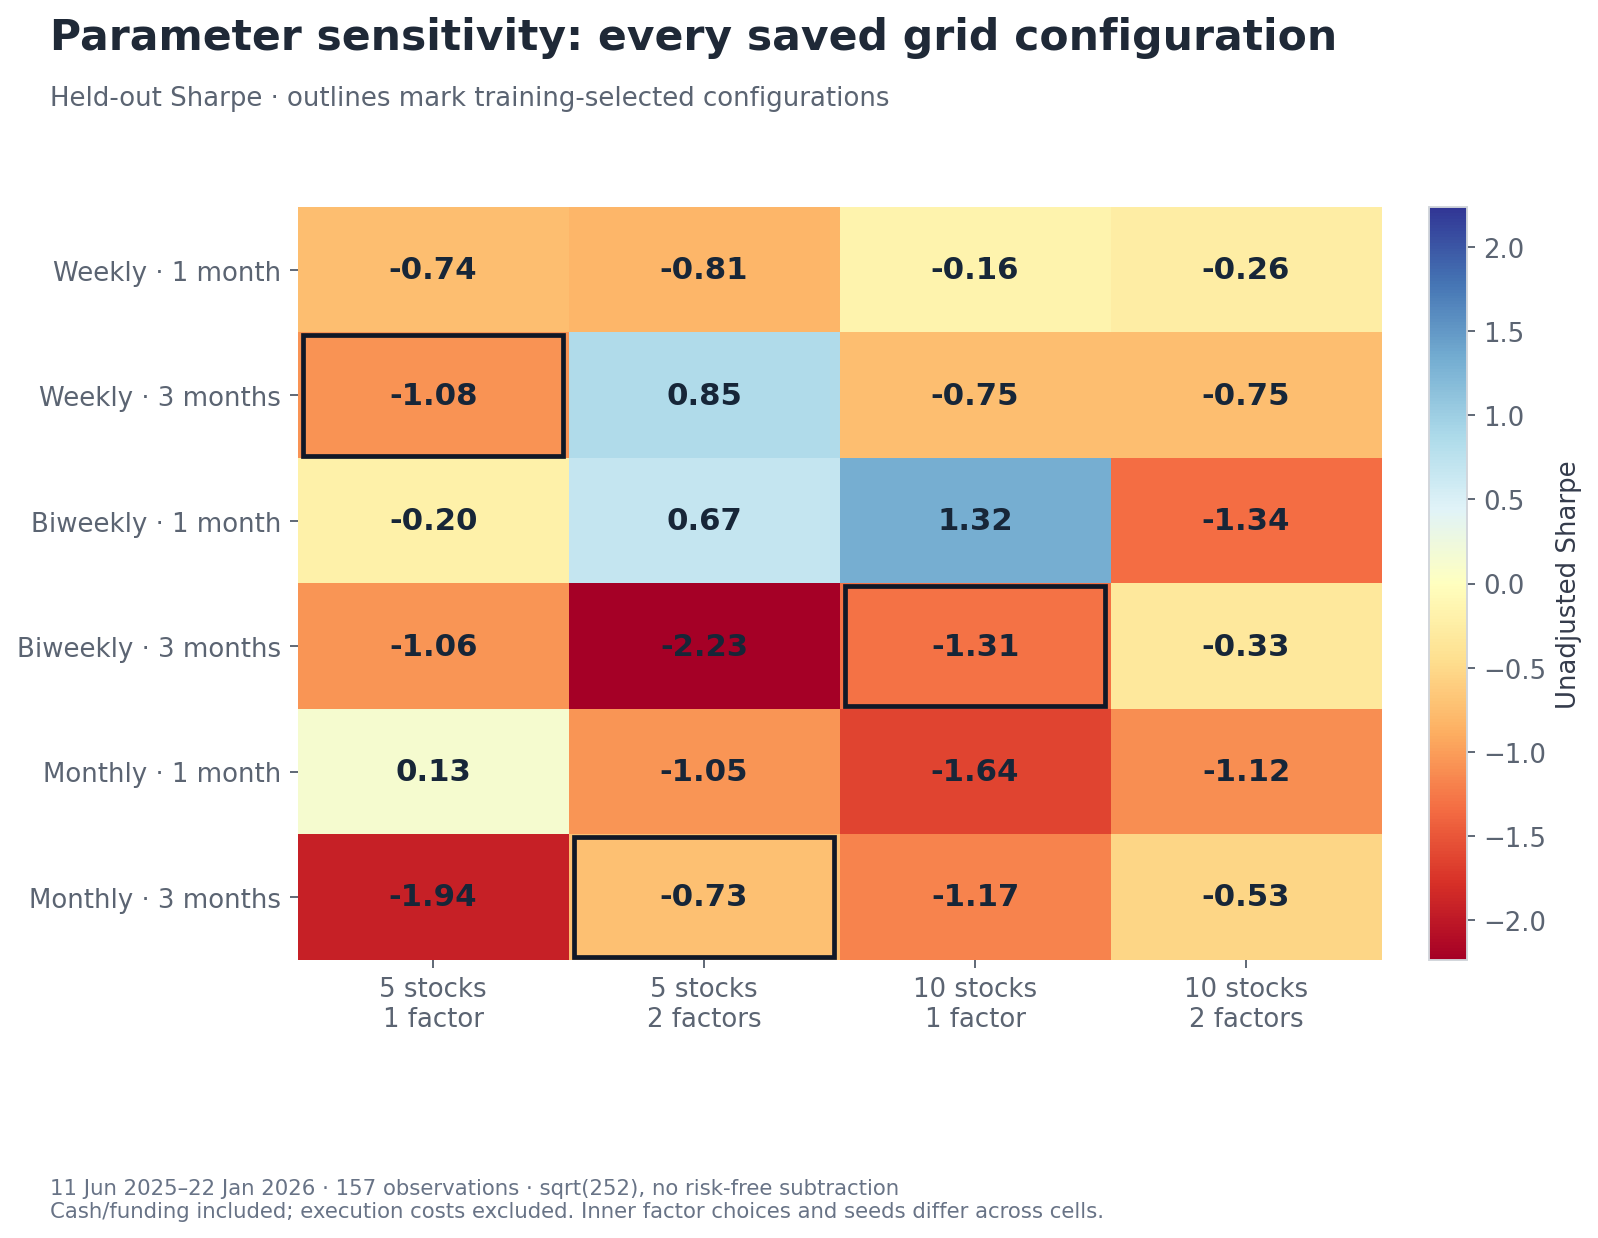
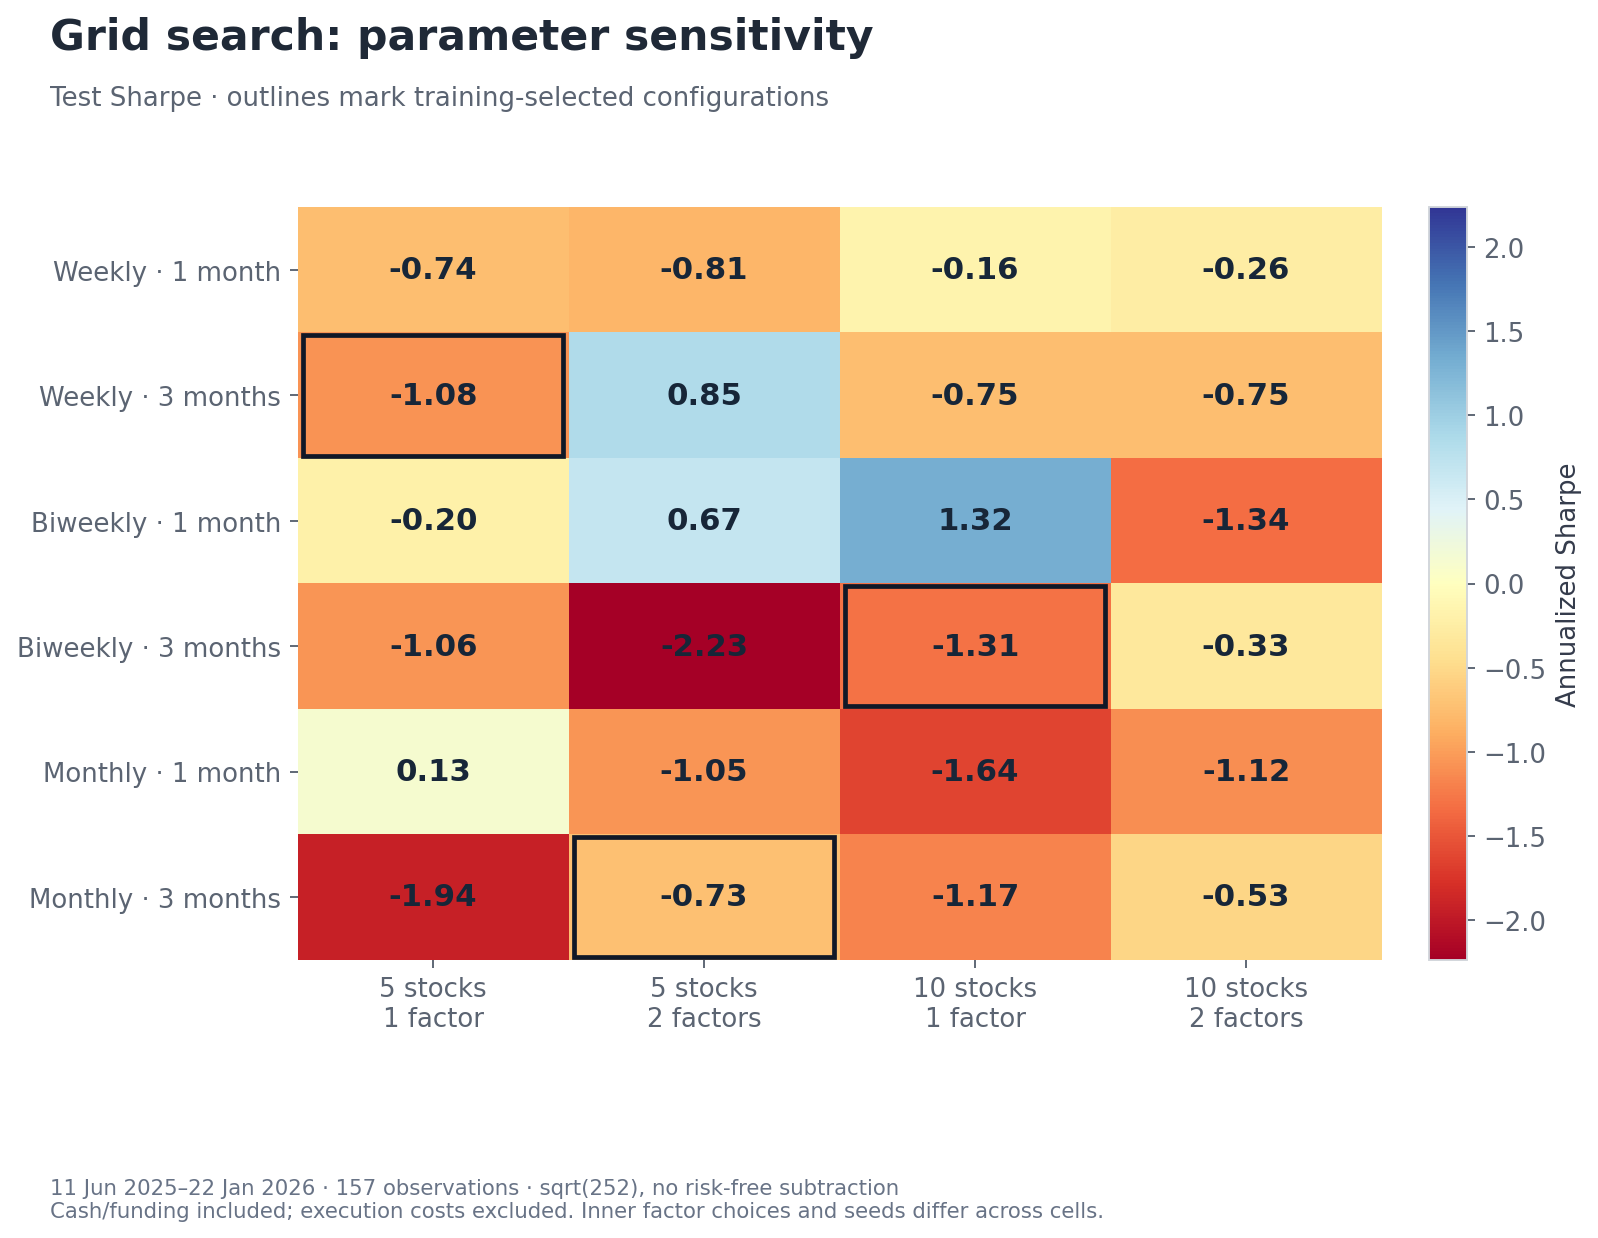
Simplify project documentation and chart captions

Changed region(s): [[0.0307, 0.0, 0.8279, 0.0921], [0.9506, 0.3683, 1.0, 0.5832]]

diff --git a/docs/research.md b/docs/research.md
@@ -6,9 +6,9 @@ I built the pipeline from data ingestion and factor construction through portfol
 
 ## Data engineering and provenance
 
-The private companion project contains collectors for MOEX ISS and optional AlgoPack market data, MOEX dividend/split feeds, CBonds dividends and financial reports, and CBR RUONIA rates. Incremental date-based updates and SQLite upserts support repeatable refreshes. Parquet snapshots provide reusable inputs for research; a review interface exposes signals, allocations and saved runs.
+The data pipeline includes collectors for MOEX ISS and optional AlgoPack market data, MOEX dividend/split feeds, CBonds dividends and financial reports, and CBR RUONIA rates. Incremental date-based updates and SQLite upserts support repeatable refreshes. Parquet snapshots provide reusable inputs for research; a research interface displays signals, allocations and saved runs.
 
-Processing includes instrument metadata, split-adjustment bookkeeping, financial-statement currency/unit normalization and trailing-earnings calculations. These implemented connectors clarify the collection pipeline. They do not, on their own, reconstruct the exact historical input snapshot or corporate-action conventions behind every saved experiment.
+Processing includes instrument metadata, split-adjustment bookkeeping, financial-statement currency/unit normalization and trailing-earnings calculations. Exact reproduction of earlier experiments still requires their original input snapshots and corporate-action conventions.
 
 The earlier research version has a fixed universe of 45 identifiers, with quotes available for 41 in its local snapshot. There is no historical index-membership reconstruction or original volume-based eligibility filter.
 
@@ -26,7 +26,7 @@ The selected strategy uses a later SQL-derived input snapshot through April 2026
 
 The search has two levels. The **inner search** chooses a portfolio specification for each enabled factor category: its signal, observation window and long/short direction. The **outer search** varies how those portfolios are selected and combined.
 
-| Study | Search space and computation | Saved evidence |
+| Study | Search space and computation | Saved outputs |
 | --- | --- | --- |
 | 24-setting grid | Weekly, biweekly or monthly resets; 1- or 3-month portfolio momentum; 5 or 10 stocks per leg; 1 or 2 selected portfolios. Up to 65,536 inner combinations per setting; base seed 42, derived per-setting seeds and all available workers. | Completed return series and chronological train/test summaries. |
 | Earlier 54-setting grids | Added a 0.5-month lookback and a third selected portfolio; combination budgets varied between runs. | Additional parameter-search records; different runs are not controlled comparisons. |
@@ -35,9 +35,9 @@ The search has two levels. The **inner search** chooses a portfolio specificatio
 
 The primary objective is annualized daily Sharpe. Other experiments use return–drawdown objectives or rebalance-start sensitivity penalties. The optimizer supports both Optuna grid and TPE sampling; the saved 50-trial configuration does not record its sampler choice.
 
-To control computation, I cached candidate returns, used array-based portfolio calculations and parallelized independent evaluations with joblib. When exhaustive search was too large, the inner search sampled distinct combinations with deterministic seeds and a fixed evaluation budget. This makes searches repeatable under matching inputs, without claiming a global optimum or a measured speedup.
+To control computation, I cached candidate returns, used array-based portfolio calculations and parallelized independent evaluations with joblib. When exhaustive search was too large, the inner search sampled distinct combinations with deterministic seeds and a fixed evaluation budget. Fixed inputs and seeds make searches repeatable. Budgeted searches do not guarantee a global optimum; computational speedup was not benchmarked.
 
-The selected run reused six previously selected specifications. Its saved settings include seed 42, one worker and a combination cap of one. These are evaluation settings, not evidence that the selected strategy emerged from a one-trial optimization. Later changes to momentum thresholds and execution assumptions are separate strategy versions.
+The selected run reused six previously selected specifications. Its saved settings include seed 42, one worker and a combination cap of one. This run evaluated an existing configuration rather than optimizing a new one. Later changes to momentum thresholds and execution assumptions are separate strategy versions.
 
 ## Validation and interpretation
 
@@ -48,13 +48,13 @@ The selected run reused six previously selected specifications. Its saved settin
 | Expanding-window exercise | Two successive later periods, with factor combinations reselected from preceding history | Fold averages and compounded returns across both periods answer different questions. |
 | Selected strategy | Full history divided 70/30; later reporting begins 17 Feb 2025 | Fixed specifications and full-window scoring; the split is not an independent final test. |
 
-Test statistics were visible during research and could influence configuration choices. Separate studies therefore cannot be arranged into a proven sequence of improvements. Rebalance-start sensitivity was also explored, but the saved multi-anchor batch produced no successful trials. Incomplete batches do not establish robustness.
+Test statistics were visible during research and could influence configuration choices. Differences in inputs and periods prevent a controlled comparison between studies. Rebalance-start sensitivity was also explored, but the saved multi-anchor batch produced no successful trials. Incomplete batches do not establish robustness.
 
 ## Execution research and reproducibility
 
-Subsequent work added a minute-level execution simulator, liquidity and capacity diagnostics, and paper-replay accounting. Participation limits, partial fills, latency, tradable lot sizes and cost assumptions are implemented there. VWAP is used as a benchmark. These extensions have engineering tests, but no reconciled result here demonstrates improved performance under execution constraints. [Implementation and remaining limits](strategy.md#rebalancing-and-execution-research).
+Subsequent work added a minute-level execution simulator, liquidity and capacity diagnostics, and paper-replay accounting. Participation limits, partial fills, latency, tradable lot sizes and cost assumptions are implemented there. VWAP is used as a benchmark. These extensions have engineering tests; their performance impact has not yet been quantified in a reconciled backtest. [Implementation and remaining limits](strategy.md#rebalancing-and-execution-research).
 
-The public repository contains documentation and summary figures. Reproducing the historical strategy requires the private implementation, the matching version and configuration, and the original price, dividend, financial and funding snapshots. Current collectors or defaults alone are insufficient to reproduce an old run exactly. The published selected-strategy metrics were recomputed from saved daily returns; they are not a new backtest using today's data.
+Reproducing the historical strategy requires the private implementation, the matching version and configuration, and the original price, dividend, financial and funding snapshots. Current collectors or defaults alone are insufficient to reproduce an old run exactly. The selected-strategy metrics use the saved daily return series from the original run.
 
 ## Experiment diagnostics
 

diff --git a/README.md b/README.md
@@ -11,7 +11,7 @@ I built a research and backtesting pipeline to study whether recent performance 
 - **Data pipeline:** incremental market-data and fundamental-data updates in SQLite, with aligned prices, dividends, financial ratios and funding rates exported to reusable Parquet research snapshots.
 - **Portfolio engine:** factor-based stock selection, momentum-based allocation, overlapping-position netting, drifting holdings, and explicit cash and funding accounting.
 - **Optimization and evaluation:** seeded factor-combination searches, parameter grids and Optuna studies, with cached calculations and parallel workers; chronological splits and expanding-window experiments to examine sensitivity.
-- **Execution research:** a separate, later minute-level simulator with volume participation limits, partial fills, lot/tick rounding, latency and trading-cost assumptions. Its engineering tests cover fill timing and portfolio accounting; these features are separate from the headline backtest.
+- **Execution research:** a separate, later minute-level simulator with volume participation limits, partial fills, lot/tick rounding, latency and trading-cost assumptions. Its engineering tests cover fill timing and portfolio accounting; these features are separate from the selected configuration’s backtest.
 
 **Tools:** Python · pandas · NumPy · SQLite · Parquet · Optuna · joblib
 
@@ -42,10 +42,10 @@ flowchart LR
 
 A stock's momentum helps form a basket. The basket's momentum determines its allocation. This separation is the central idea of the project.
 
-## Explore the project
+## Documentation
 
 - [Strategy and implementation decisions](docs/strategy.md): factor definitions, portfolio accounting and execution research.
 - [Selected results](docs/results.md): performance of the configuration I used, including drawdown and interpretation.
-- [Research process](docs/research.md): data preparation, search design and expandable results from other experiments.
+- [Research process](docs/research.md): data preparation, search design and results from other experiments.
 
-This is a presentation of an internal project. Source code, datasets and detailed trading records remain private.
+Source code, datasets and detailed trading records remain private.

diff --git a/docs/strategy.md b/docs/strategy.md
@@ -68,10 +68,10 @@ A later research extension addresses execution explicitly:
 
 The later simulator is a **research prototype**. Existing tests cover timing, partial fills, unavailable shorts, lot/tick constraints, costs, funding and restart accounting; the 16-test suite passes. These checks establish accounting behavior, not improved performance or deployed execution.
 
-Historical order-book depth and a calibrated market-impact model are not available in this evidence. VWAP appears as an execution benchmark; a deployed VWAP execution algorithm has not been established. The later simulator has not been used to restate the selected strategy's headline returns.
+The simulator uses minute-bar price and volume proxies; it has no historical order-book replay or calibrated market-impact model. VWAP is an execution benchmark. Live VWAP execution remains unverified, and the selected backtest has not been rerun with the later simulator.
 
 ## Interpretation and next steps
 
 The main research limitations are the fixed universe, assumed information availability and missing-return handling. Part of the earlier factor implementation also applies a rolling-signal shift across stock boundaries at the first observation of a new stock. Historical strategy versions therefore need to be distinguished when reproducing or extending the work.
 
-The next evaluation step is to apply the execution model to a frozen configuration and reserved period, with measured spread, borrow and liquidity inputs. That would support a more informative comparison of theoretical and executable returns. [Searches and validation evidence](research.md).
+The next evaluation step is to apply the execution model to a frozen configuration and reserved period, with measured spread, borrow and liquidity inputs. That would support a more informative comparison of theoretical and executable returns. [Searches and validation](research.md).

diff --git a/docs/results.md b/docs/results.md
@@ -34,8 +34,8 @@ The selected setup uses daily close rebalancing, a 0.75-month portfolio-momentum
 | Annualized Sharpe | Daily mean return divided by sample standard deviation, multiplied by √252. No additional risk-free series is subtracted after financing. |
 | Maximum drawdown | Largest decline from a preceding wealth peak, shown as a positive loss magnitude in the table. |
 
-Figures were reconciled against the saved daily return series and run summaries. Segment returns compound; they should not be added together.
+All metrics use the saved daily portfolio returns. Segment returns compound; they should not be added together.
 
-No benchmark outperformance is claimed. The earlier benchmark snapshot contains MCFTR under an IMOEXF input label and ends before the full evaluation period; a like-for-like full-period comparison is not established here.
+A comparable full-period benchmark series is unavailable: the earlier snapshot contains MCFTR under an IMOEXF input label and ends before the evaluation period.
 
 Other configurations produced mixed results, including negative later-period returns. Their [grid, Optuna and walk-forward diagnostics](research.md#experiment-diagnostics) remain available as research context. They do not establish robustness of the selected configuration.
